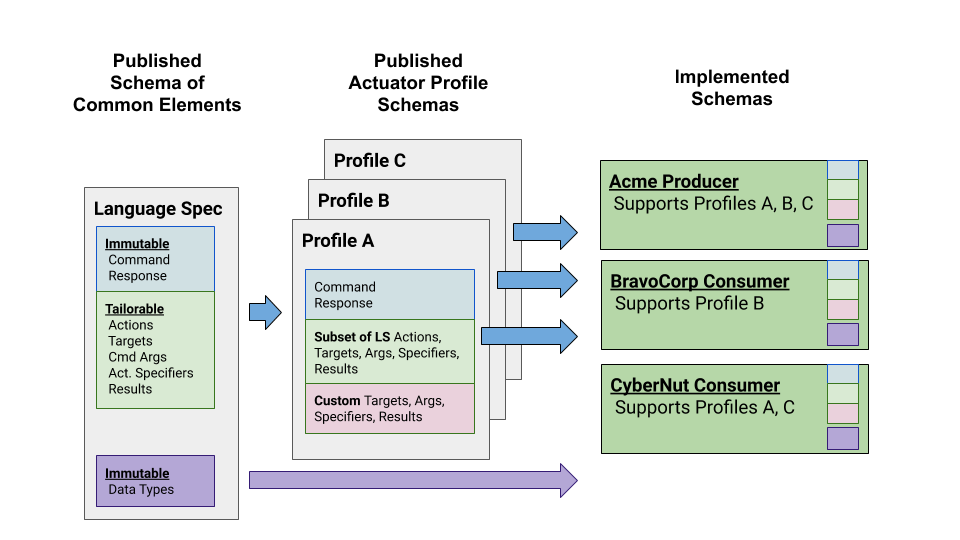
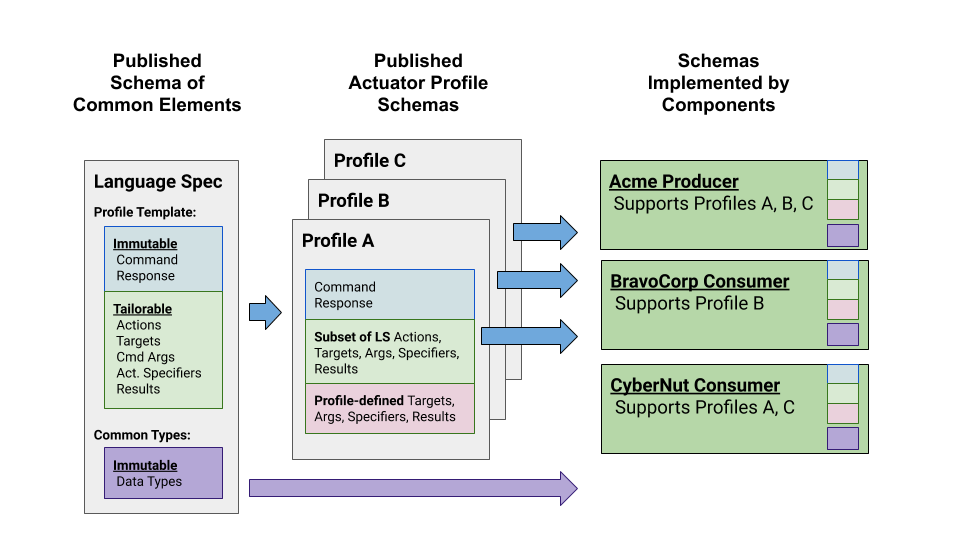
Update resolver diagram

diff --git a/Schema-Template/README.md b/Schema-Template/README.md
@@ -15,7 +15,7 @@ the subset of common elements plus custom elements needed to perform a Profile's
 and the schema for the one or more Profiles supported by a Cyber-defense Component
 is illustrated in Figure 1.  The schema implemented by a Component is the union of the profile
 schemas supported by that Component, i.e, a data instance is valid iff it is valid according
-to *oneOf* the supported profile schemas.
+to **oneOf** the supported profile schemas.
 
 ![Resolver](images/resolver.png)
 *Fig. 1 - Language, Profiles, and Product Schemas*
